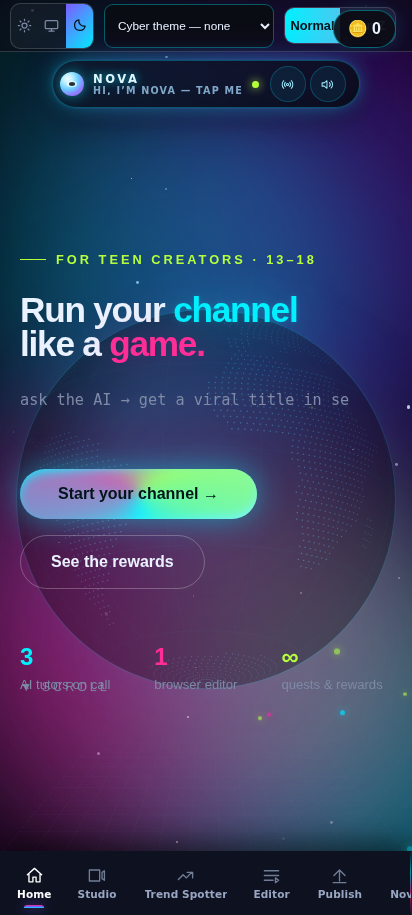
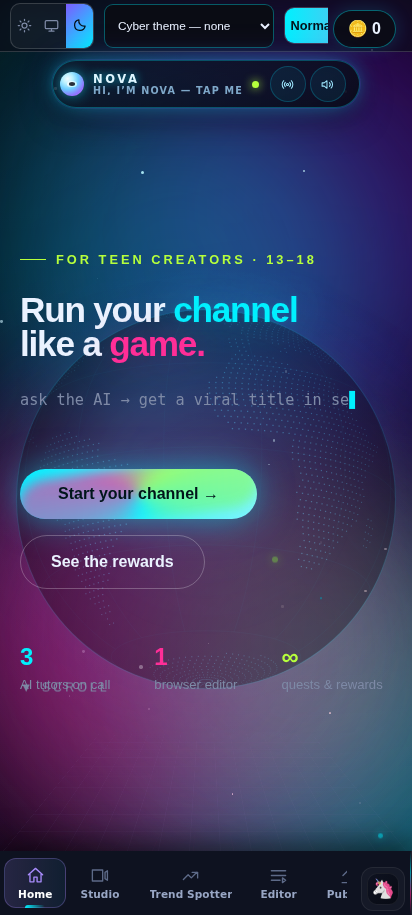
The whole site's sidebar now looks like Trend Spotter's, and Trend Spotter has a way out
Trend Spotter shipped with its own rail and its own design language, so
opening it felt like leaving the site. Its look wins: it goes into
nova.js, which every page loads, so all 28 share it.

WHAT MOVED ACROSS

Rows are .nc-nav-item: a background and a border for hover and active,
rather than a lit gradient with a bar welded to the left edge. The
border is transparent when idle, so nothing shifts by a pixel between
states. Icons are 19px and answer the state — muted, blue on hover,
violet on the page you are on.

Group headings are .nc-nav-label: a quiet uppercase caption. The
gradient rule that ran to the right edge is gone; that page has none,
and it was the loudest thing in a column of soft rows. The chevron
stays, smaller — these groups collapse, and a header that collapses
with nothing to say so is a trap.

The rail itself has a hairline edge and a blur instead of the cyan
border and cyan bloom. The gradient still comes from --nc-rail1/2 so
light mode keeps working; hard-coding that page's dark hexes would have
put a near-black column down the side of every light-mode page. Every
new colour is a variable with a light-mode value beside it — at .16 on
white the active row was invisible.

The profile moved from the top of the rail, above the logo, to a card at
the foot, and a NovaCoins card joins it. It used to push the navigation
down by its own height on every screen while sitting in the one place
nobody looks for it. Its second line names the connected channel when
[…]

diff --git a/nova.js b/nova.js
@@ -690,6 +690,13 @@ ncThemeStyle.textContent =
   "--nc-rail1:#0E1220; --nc-rail2:#0A0D18; --nc-rail3:#080B14;" +
   "--nc-railline:rgba(255,255,255,.07); --nc-railglow:rgba(124,92,255,.10);" +
   "--nc-navhead:#5D6A88; --nc-navhover:#A8B8D8; --nc-navlink:#98A6C4; --nc-navon:#FFFFFF;" +
+  /* Trend Spotter's rail vocabulary, now shared. Kept as variables so light
+     mode can restate them rather than inheriting a dark wash on white. */
+  "--nc-navhoverbg:rgba(255,255,255,.04);" +
+  "--nc-navonbg:linear-gradient(90deg,rgba(167,139,250,.16),rgba(56,189,248,.08));" +
+  "--nc-navonline:rgba(167,139,250,.28); --nc-navicohover:#38BDF8; --nc-navicoon:#A78BFA;" +
+  "--nc-coinbg:linear-gradient(135deg,rgba(167,139,250,.12),rgba(244,114,182,.08));" +
+  "--nc-cardbg:rgba(255,255,255,.03);" +
   "--nc-sel-bg:#0A0C14; --nc-sel-text:#EAF2FF; --nc-sel-line:rgba(0,240,255,.35);" +
 "}" +
 
@@ -708,6 +715,12 @@ ncThemeStyle.textContent =
   "--nc-rail1:#FFFFFF; --nc-rail2:#F7F9FD; --nc-rail3:#EFF3FA;" +
   "--nc-railline:rgba(16,24,44,.13); --nc-railglow:rgba(91,63,214,.10);" +
   "--nc-navhead:#6B7690; --nc-navhover:#1B2437; --nc-navlink:#2B3448; --nc-navon:#0B0E16;" +
+  /* Same shapes, stronger tints: at .16 on white the active row was invisible. */
+  "--nc-navhoverbg:rgba(16,24,44,.05);" +
+  "--nc-navonbg:linear-gradient(90deg,rgba(124,92,255,.16),rgba(56,189,248,.10));" +
+  "--nc-navonline:rgba(124,92,255,.34); --nc-navicohover:#0A85C4; --nc-navicoon:#6D4AE0;" +
+  "--nc-coinbg:linear-gradient(135deg,rgba(124,92,255,.13),rgba(247,37,133,.08));" +
+  "--nc-cardbg:rgba(16,24,44,.035);" +
   "--nc-sel-bg:#FFFFFF; --nc-sel-text:#0B0E16; --nc-sel-line:rgba(16,24,44,.22);" +
 
   /* The families the pages declare for themselves, re-pointed at the palette
@@ -1468,7 +1481,12 @@ style.textContent =
 "select { background:var(--nc-sel-bg,#0A0C14) !important; color:var(--nc-sel-text,#EAF2FF) !important; border:1px solid var(--nc-sel-line,rgba(0,240,255,0.35)) !important; }" +
 "select option { background:var(--nc-sel-bg,#0A0C14); color:var(--nc-sel-text,#EAF2FF); }" +
 /* futuristic sidebar upgrade — applies on every page over local styles */
-".sidebar { background: linear-gradient(180deg, var(--nc-rail1,rgba(8,9,16,0.96)), var(--nc-rail2,rgba(10,8,20,0.96))) !important; border-right:1px solid rgba(0,240,255,0.18) !important; box-shadow: 8px 0 40px rgba(0,240,255,0.05); }" +
+/* The rail, matched to Trend Spotter: a soft hairline edge and a blur
+   instead of the cyan border and cyan bloom it had. The gradient still
+   comes from --nc-rail1/2 so light mode keeps working — those already
+   flip, and hard-coding that page's dark hexes would have put a near-black
+   column down the side of every light-mode page. */
+".sidebar { background: linear-gradient(180deg, var(--nc-rail1,rgba(8,9,16,0.96)), var(--nc-rail2,rgba(10,8,20,0.96))) !important; border-right:1px solid var(--nc-railline,rgba(255,255,255,.07)) !important; box-shadow:none; backdrop-filter: blur(18px); -webkit-backdrop-filter: blur(18px); }" +
 /* The glowing rail down the sidebar's edge used to breathe forever. That
    animation lives on a pseudo-element of a FIXED, backdrop-filtered panel,
    which means the browser re-blurred roughly 195,000 pixels behind it on
@@ -1597,7 +1615,11 @@ ncFit.textContent =
    a bottom strip with its own rules, and overriding those would put the nav
    back down the left of a phone.
    --------------------------------------------------------------------------- */
-":root { --nc-rail: clamp(164px, 13vw, 232px); }" +
+/* 248 at the top end is Trend Spotter's --nc-sidebar, so the rail is now
+   literally the same width as the page it is being matched to. The old
+   232 truncated "Trend Spotter" and the profile name once the foot cards
+   put an avatar in front of the text. */
+":root { --nc-rail: clamp(176px, 14vw, 248px); }" +
 "@media (min-width: 761px) {" +
   /* Only pages that actually HAVE a rail get pushed over by it. editor.html,
      game.html, trends.html, parent.html and pricing.html have no .sidebar —
@@ -1619,7 +1641,8 @@ ncFit.textContent =
      from the top on every page. The rail is the site's top edge now — the
      padding above it was wasted space, so it is pulled up to sit near it. */
   ".sidebar { padding-top: 8px; }" +
-  "#ncprof { margin-top: 2px; }" +
+  /* the profile sits at the foot of the rail now, not above the logo */
+
   /* The reading column was centred in whatever space the rail left over, which
      on a 1920 screen is 760px of text floating in 1688px of room — a 400px
      dead strip against the sidebar on ai, community, publish, progress and
@@ -2593,23 +2616,69 @@ function ncProfile() {
   const sb = document.querySelector('.sidebar');
   if (!sb || document.getElementById('ncprof')) return;
 
+  /* ---------------------------------------------------------------------
+     THE FOOT OF THE RAIL
+     ---------------------------------------------------------------------
+     Two cards pinned to the bottom, copied from the Trend Spotter page: what
+     you have earned, and who you are. The profile used to sit at the very
+     top, above the logo, which is the one spot on the page nobody looks for
+     it — and it pushed the navigation down by its own height on every screen.
+
+     margin-top:auto on the wrapper is what pins it. The rail's .themewrap had
+     that too; two elements both claiming the free space would have split it
+     and left a gap between them, so that one gives it up below.
+     --------------------------------------------------------------------- */
+  const foot = document.createElement('div');
+  foot.id = 'ncfoot';
+
+  const coins = document.createElement('a');
+  coins.id = 'nccoins';
+  coins.href = 'progress.html';   // the page that explains where they came from
+
   const box = document.createElement('button');
   box.id = 'ncprof';
-  box.style.cssText = 'display:flex;align-items:center;gap:10px;width:100%;margin:2px 0 6px;' +
-    'padding:9px 10px;border-radius:12px;border:1px solid rgba(255,255,255,0.1);' +
-    'background:rgba(255,255,255,0.03);color:inherit;font:inherit;cursor:pointer;text-align:left';
+  box.type = 'button';
+
+  function paintCoins() {
+    coins.innerHTML =
+      '<span class="ncfi">' +
+        '<svg viewBox="0 0 24 24" fill="none" stroke="currentColor" stroke-width="2" ' +
+        'stroke-linecap="round" stroke-linejoin="round" aria-hidden="true">' +
+        '<circle cx="12" cy="12" r="9"/><path d="M12 7v10M9.5 9.5h4a1.8 1.8 0 010 3.6h-3a1.8 1.8 0 000 3.6h4"/>' +
+        '</svg></span>' +
+      /* "NovaCoins" is the product's own name for them and is not translated
+         anywhere else on the site, so it is not run through tr() here either. */
+      '<span class="ncfb"><b>' + getPts().toLocaleString() + '</b><i>NovaCoins</i></span>';
+  }
+
   function paint() {
     const pic = ncAvatar();
     const face = pic.startsWith('data:')
-      ? '<img src="' + pic + '" alt="" style="width:32px;height:32px;border-radius:50%;object-fit:cover">'
-      : '<span style="display:grid;place-items:center;width:32px;height:32px;border-radius:50%;' +
-        'background:linear-gradient(120deg,#7C5CFF,#00E5FF);font-size:17px">' + pic + '</span>';
-    box.innerHTML = face + '<span style="font-size:13.5px;font-weight:600">' +
-      (ncName() ? ncName().replace(/[<>&]/g, '') : tr('ui_set_name')) + '</span>';
+      ? '<img src="' + pic + '" alt="" class="ncav">'
+      : '<span class="ncav ncave">' + pic + '</span>';
+    /* The second line is the connected channel when there is one — that is
+       the thing worth knowing at a glance, and it is what certificates get
+       issued in the name of. Otherwise it names the product, as on Trend
+       Spotter, rather than sitting empty. */
+    let channel = '';
+    try {
+      const y = JSON.parse(localStorage.getItem('nc_yt') || 'null');
+      if (y && y.channel) channel = String(y.channel);
+    } catch (e) {}
+    box.innerHTML = face + '<span class="ncfb"><b>' +
+      (ncName() ? ncName().replace(/[<>&]/g, '') : tr('ui_set_name')) + '</b><i>' +
+      (channel ? channel.replace(/[<>&]/g, '') : 'Creator') + '</i></span>';
   }
+
+  paintCoins();
   paint();
-  sb.insertBefore(box, sb.firstChild);
+  foot.append(coins, box);
+  sb.appendChild(foot);
   box.onclick = openProfile;
+  /* Points change while the page is open — a game finishing, a quest paying
+     out. The badge in the top bar already listens for this. */
+  addEventListener('storage', paintCoins);
+  addEventListener('nc-points', paintCoins);
 
   function openProfile() {
     if (document.getElementById('ncprofui')) return;
@@ -2878,19 +2947,42 @@ function ncNav() {
         /* !important because the brand carries an inline display:flex, and an
            inline style beats a stylesheet no matter how specific. */
         '.sidebar #ncbrand{display:none !important}' +
-        '.sidebar #ncprof{order:9;width:auto !important;flex:0 0 auto;' +
-        'margin:0 0 0 4px !important;padding:6px !important;white-space:nowrap}' +
-        '.sidebar #ncprof span:last-child{display:none}}',
-      '#ncnav{display:flex;flex-direction:column;gap:2px;padding:2px 10px 6px}',
+        /* The two cards live in #ncfoot now, so the strip shrinks that instead
+           of the profile directly: the coins card is already in the top bar's
+           badge on a phone, and the profile keeps only its avatar. */
+        /* The tag names are in these selectors on purpose. The two cards are
+           styled further down this same stylesheet at the same specificity,
+           and a later rule wins a tie — so without `a#` and `button#` the
+           coins card stayed visible in the strip and ate a third of it. */
+        '.sidebar #ncfoot{order:9;flex-direction:row;margin:0;padding:0;gap:4px;align-items:center}' +
+        '.sidebar #ncfoot a#nccoins{display:none}' +
+        '.sidebar #ncfoot button#ncprof{width:auto;flex:0 0 auto;' +
+        'margin:0 0 0 4px;padding:5px;border-radius:12px;white-space:nowrap}' +
+        '.sidebar #ncfoot #ncprof .ncfb{display:none}' +
+        '.sidebar #ncfoot #ncprof .ncav{width:32px;height:32px;border-radius:10px}}',
+      /* The nav takes the leftover height and scrolls inside itself, which is
+         what pins the foot. Without this the column simply grew past the
+         window and the coins card fell off the bottom of an 768px screen —
+         sixteen links, four headers, the brand and two cards is about 800px
+         of rail. min-height:0 is the part that is easy to miss: a flex item
+         will not shrink below its content without it, so overflow-y would
+         never have engaged. */
+      '#ncnav{display:flex;flex-direction:column;gap:2px;padding:2px 10px 6px;',
+      'flex:1 1 auto;min-height:0;overflow-y:auto;scrollbar-width:thin}',
 
-      /* group header */
+      /* Group header, styled as Trend Spotter's .nc-nav-label: a quiet
+         uppercase caption rather than a ruled divider. The gradient line that
+         used to run to the right edge is gone with it — that page has none,
+         and it was the loudest thing in a column of otherwise soft rows.
+         The chevron stays, smaller and fainter: these groups collapse, and a
+         header that collapses with nothing to say so is a trap. */
       '#ncnav .ncgh{display:flex;align-items:center;gap:7px;width:100%;min-height:30px;',
-      'padding:clamp(7px,1.15vh,14px) 9px clamp(3px,.55vh,7px);background:none;border:0;cursor:pointer;text-align:left;',
-      'font:700 10px/1 Segoe UI,system-ui,sans-serif;letter-spacing:.15em;text-transform:uppercase;',
+      'padding:clamp(7px,1.15vh,14px) 10px clamp(3px,.55vh,7px);background:none;border:0;cursor:pointer;text-align:left;',
+      'font:800 10.5px/1 Segoe UI,system-ui,sans-serif;letter-spacing:.12em;text-transform:uppercase;',
       'color:var(--nc-navhead,#5D6A88);transition:color .18s}',
       '#ncnav .ncgh:hover{color:var(--nc-navhover,#A8B8D8)}',
-      '#ncnav .ncgh .ncgl{flex:1;height:1px;background:linear-gradient(90deg,var(--nc-line2,rgba(255,255,255,.10)),transparent)}',
-      '#ncnav .ncgh .ncar{width:13px;height:13px;flex:0 0 auto;transition:transform .22s cubic-bezier(.4,1.4,.5,1);opacity:.6}',
+      '#ncnav .ncgh .ncgl{flex:1}',
+      '#ncnav .ncgh .ncar{width:12px;height:12px;flex:0 0 auto;transition:transform .22s cubic-bezier(.4,1.4,.5,1);opacity:.45}',
       '#ncnav .ncg.shut .ncar{transform:rotate(-90deg)}',
       /* The layout lives here, not in an inline style. An inline display:flex
          beats any stylesheet rule, so collapsing would silently do nothing. */
@@ -2913,34 +3005,72 @@ function ncNav() {
          have to scroll to reach is a nav with a hidden half. The row height
          is a share of the window now: tighter on a short screen, roomier on
          a tall one. */
-      'padding:clamp(5px,.8vh,10px) 12px;border-radius:11px;font:600 14px/1.2 Segoe UI,system-ui,sans-serif;',
-      'color:var(--nc-navlink,#98A6C4);text-decoration:none;background:none;isolation:isolate;',
-      'transition:color .18s,transform .18s}',
-      '.sidebar #ncnav a.ncl::before{content:"";position:absolute;inset:0;border-radius:11px;z-index:-1;',
-      'background:linear-gradient(105deg,rgba(124,92,255,.22),rgba(0,229,255,.13));',
-      'opacity:0;transition:opacity .2s}',
-      '.sidebar #ncnav a.ncl:hover{color:var(--nc-navon,#EAF2FF);transform:translateX(2px)}',
-      '.sidebar #ncnav a.ncl:hover::before{opacity:1}',
+      /* Trend Spotter's .nc-nav-item, now the whole site's. Its states are a
+         background and a border rather than the old lit gradient with a bar
+         welded to the left edge — softer, and it does not shift the row when
+         it turns on. The border is transparent when idle so nothing moves by
+         a pixel between states. */
+      'padding:clamp(5px,.8vh,10px) 12px;border-radius:11px;font:700 14px/1.2 Segoe UI,system-ui,sans-serif;',
+      'color:var(--nc-navlink,#98A6C4);text-decoration:none;border:1px solid transparent;',
+      'background:none;transition:background .15s,color .15s,border-color .15s,transform .12s}',
+      '.sidebar #ncnav a.ncl:hover{color:var(--nc-navon,#EAF2FF);background:var(--nc-navhoverbg,rgba(255,255,255,.04))}',
+      '.sidebar #ncnav a.ncl:active{transform:scale(.985)}',
       '.sidebar #ncnav a.ncl:focus-visible{outline:2px solid #00E5FF;outline-offset:2px}',
 
-      /* active: the gradient stays lit, plus a rail on the left edge */
-      '.sidebar #ncnav a.ncl.on{color:var(--nc-navon,#fff)}',
-      '.sidebar #ncnav a.ncl.on::before{opacity:1;',
-      'background:linear-gradient(105deg,rgba(247,37,133,.26),rgba(124,92,255,.30) 55%,rgba(0,229,255,.18))}',
-      '.sidebar #ncnav a.ncl.on::after{content:"";position:absolute;left:-10px;top:50%;transform:translateY(-50%);',
-      'width:3px;height:22px;border-radius:0 3px 3px 0;background:linear-gradient(180deg,#F72585,#7C5CFF,#00E5FF);',
-      'box-shadow:0 0 12px rgba(124,92,255,.75)}',
+      /* active: a violet-to-cyan wash with a violet edge, exactly as on the
+         Trend Spotter page. No left rail, no ::before, no glow. */
+      '.sidebar #ncnav a.ncl.on{color:var(--nc-navon,#fff);',
+      'background:var(--nc-navonbg,linear-gradient(90deg,rgba(167,139,250,.16),rgba(56,189,248,.08)));',
+      'border-color:var(--nc-navonline,rgba(167,139,250,.28))}',
 
-      /* the icon sits in its own tile so the rows line up whatever the glyph */
-      '.sidebar #ncnav a.ncl .nci{width:17px;height:17px;flex:0 0 auto;opacity:.72;transition:opacity .18s,transform .18s}',
-      '.sidebar #ncnav a.ncl:hover .nci{opacity:1;transform:scale(1.08)}',
-      '.sidebar #ncnav a.ncl.on .nci{opacity:1}',
+      /* 19px icons that answer the state: muted at rest, blue on hover,
+         violet when the row is the page you are on. */
+      '.sidebar #ncnav a.ncl .nci{width:19px;height:19px;flex:0 0 auto;color:var(--nc-navhead,#5D6A88);',
+      'opacity:1;transition:color .15s,transform .18s}',
+      '.sidebar #ncnav a.ncl:hover .nci{color:var(--nc-navicohover,#38BDF8)}',
+      '.sidebar #ncnav a.ncl.on .nci{color:var(--nc-navicoon,#A78BFA)}',
       '.sidebar #ncnav a.ncl .nct{flex:1;min-width:0;overflow:hidden;text-overflow:ellipsis;white-space:nowrap}',
 
-      /* profile and brand, tidied to match */
-      '.sidebar #ncprof{border-radius:13px !important;transition:background .18s,border-color .18s}',
-      '.sidebar #ncprof:hover{background:rgba(255,255,255,.07) !important;border-color:rgba(124,92,255,.5) !important}',
-      '.sidebar .themewrap{border-top:1px solid rgba(255,255,255,.06);margin-top:auto;position:sticky;bottom:0;z-index:2;background:var(--nc-rail3,#080B14)}',
+      /* ------------------------------------------------------------------
+         THE FOOT: coins card, then profile card
+         ------------------------------------------------------------------
+         Trend Spotter's .nc-points-card and .nc-profile-card. Same 18px
+         radius, same 12px/14px padding, same two-line block of a bold value
+         over a small uppercase caption — so the two pages stop looking like
+         two products.
+         ------------------------------------------------------------------ */
+      '.sidebar #ncfoot{margin-top:auto;display:flex;flex-direction:column;gap:10px;padding:12px 2px 4px}',
+      '.sidebar #ncfoot #nccoins,.sidebar #ncfoot #ncprof{display:flex;align-items:center;gap:12px;',
+      'width:100%;margin:0;padding:12px 14px;border-radius:18px;text-align:left;cursor:pointer;',
+      'border:1px solid var(--nc-railline,rgba(255,255,255,.08));color:inherit;font:inherit;',
+      'text-decoration:none;transition:background .15s,border-color .15s,transform .12s}',
+      '.sidebar #ncfoot #nccoins{background:var(--nc-coinbg,linear-gradient(135deg,rgba(167,139,250,.12),rgba(244,114,182,.08)))}',
+      '.sidebar #ncfoot #ncprof{background:var(--nc-cardbg,rgba(255,255,255,.03))}',
+      '.sidebar #ncfoot #nccoins:hover,.sidebar #ncfoot #ncprof:hover{border-color:var(--nc-navonline,rgba(167,139,250,.28))}',
+      '.sidebar #ncfoot #nccoins:active,.sidebar #ncfoot #ncprof:active{transform:scale(.985)}',
+      '.sidebar #ncfoot #nccoins:focus-visible,.sidebar #ncfoot #ncprof:focus-visible{outline:2px solid #00E5FF;outline-offset:2px}',
+      /* the gradient tile the coin icon sits in */
+      '.sidebar #ncfoot .ncfi{width:38px;height:38px;border-radius:12px;flex:0 0 auto;display:grid;',
+      'place-items:center;color:#fff;background:linear-gradient(135deg,#F72585,#7C5CFF,#00E5FF);',
+      'box-shadow:0 4px 16px rgba(124,92,255,.35)}',
+      '.sidebar #ncfoot .ncfi svg{width:19px;height:19px}',
+      /* the avatar, square-cornered like Trend Spotter's rather than a circle */
+      '.sidebar #ncfoot .ncav{width:40px;height:40px;border-radius:12px;flex:0 0 auto;object-fit:cover}',
+      '.sidebar #ncfoot .ncave{display:grid;place-items:center;font-size:19px;',
+      'background:linear-gradient(135deg,var(--nc-rail1,#0E1220),var(--nc-rail3,#080B14));',
+      'border:1px solid var(--nc-railline,rgba(255,255,255,.12))}',
+      /* value over caption */
+      '.sidebar #ncfoot .ncfb{display:flex;flex-direction:column;min-width:0;line-height:1.2}',
+      '.sidebar #ncfoot .ncfb b{font-weight:900;font-size:.95rem;letter-spacing:-.01em;',
+      'overflow:hidden;text-overflow:ellipsis;white-space:nowrap;color:var(--nc-navon,#EAF2FF)}',
+      '.sidebar #ncfoot #nccoins .ncfb b{font-size:1.05rem;font-family:ui-monospace,Consolas,monospace}',
+      '.sidebar #ncfoot .ncfb i{font-style:normal;font-size:.66rem;font-weight:800;letter-spacing:.1em;',
+      'text-transform:uppercase;color:var(--nc-navhead,#5D6A88);overflow:hidden;text-overflow:ellipsis;white-space:nowrap}',
+
+      /* The foot claims the free space now, so this must not also claim it —
+         two auto margins in a flex column split the gap and would have left
+         a hole between the cards and the controls. */
+      '.sidebar .themewrap{border-top:1px solid rgba(255,255,255,.06);margin-top:0;position:sticky;bottom:0;z-index:2;background:var(--nc-rail3,#080B14)}',
 
       /* phones: a horizontal strip, icons above labels so it stays readable */
       '@media (max-width:760px){',
@@ -2962,6 +3092,10 @@ function ncNav() {
      navigations disagreeing about where things are. */
   [...bar.querySelectorAll('a')].forEach(a => {
     if (a.id === 'ncbrand') return;
+    /* The foot's cards are ours, and the coins one is an <a> — it was being
+       swept up here and deleted the moment the nav was built, which is why it
+       rendered and then vanished. Anything inside #ncfoot stays. */
+    if (a.closest('#ncfoot')) return;
     a.remove();
   });
 

diff --git a/trends.html b/trends.html
@@ -194,5 +194,48 @@ Hook: ${F.hook}`);Sn(te?{title:"Copied to clipboard",body:F.title,variant:"succe
 <script src="nova.js"></script>
 <script src="biometric.js" defer></script>
 <script src="jarvis.js" defer></script>
+<script>
+/* ---------------------------------------------------------------------------
+   A WAY BACK OUT
+   ---------------------------------------------------------------------------
+   This page is a bundled app with its own rail, and that rail listed only its
+   own routes — Home, Trend Spotter, Video Ideas, Scripts, Thumbnails, Editor,
+   Publish, all of them hash routes inside this one file. There was not a single
+   link to the rest of novaclip.org anywhere on it. Opening it from the site's
+   sidebar meant the browser Back button or nothing.
+
+   The rail is React-rendered, so the link is added afterwards rather than by
+   editing the bundle: wait for the nav, add one row at the top styled with the
+   page's own .nc-nav-item class so it cannot drift from the others, and stop
+   watching. If the app ever re-renders the nav away, the observer puts it
+   back.
+   --------------------------------------------------------------------------- */
+(function () {
+  var ICON = '<svg viewBox="0 0 24 24" fill="none" stroke="currentColor" stroke-width="2" ' +
+    'stroke-linecap="round" stroke-linejoin="round" aria-hidden="true">' +
+    '<path d="M19 12H5M12 19l-7-7 7-7"/></svg>';
+
+  function add() {
+    var navs = document.querySelectorAll('.nc-nav');
+    if (!navs.length) return false;
+    for (var i = 0; i < navs.length; i++) {
+      var nav = navs[i];
+      if (nav.querySelector('.nc-backhome')) continue;
+      var a = document.createElement('a');
+      a.className = 'nc-nav-item nc-backhome';
+      a.href = 'index.html';
+      a.innerHTML = ICON + '<span>Back to NovaClip</span>';
+      a.style.marginBottom = '6px';
+      nav.insertBefore(a, nav.firstChild);
+    }
+    return true;
+  }
+
+  /* The drawer on a phone mounts its own copy of the nav later, so this keeps
+     watching rather than disconnecting after the first success. */
+  add();
+  new MutationObserver(add).observe(document.documentElement, { childList: true, subtree: true });
+})();
+</script>
 </body>
 </html>
